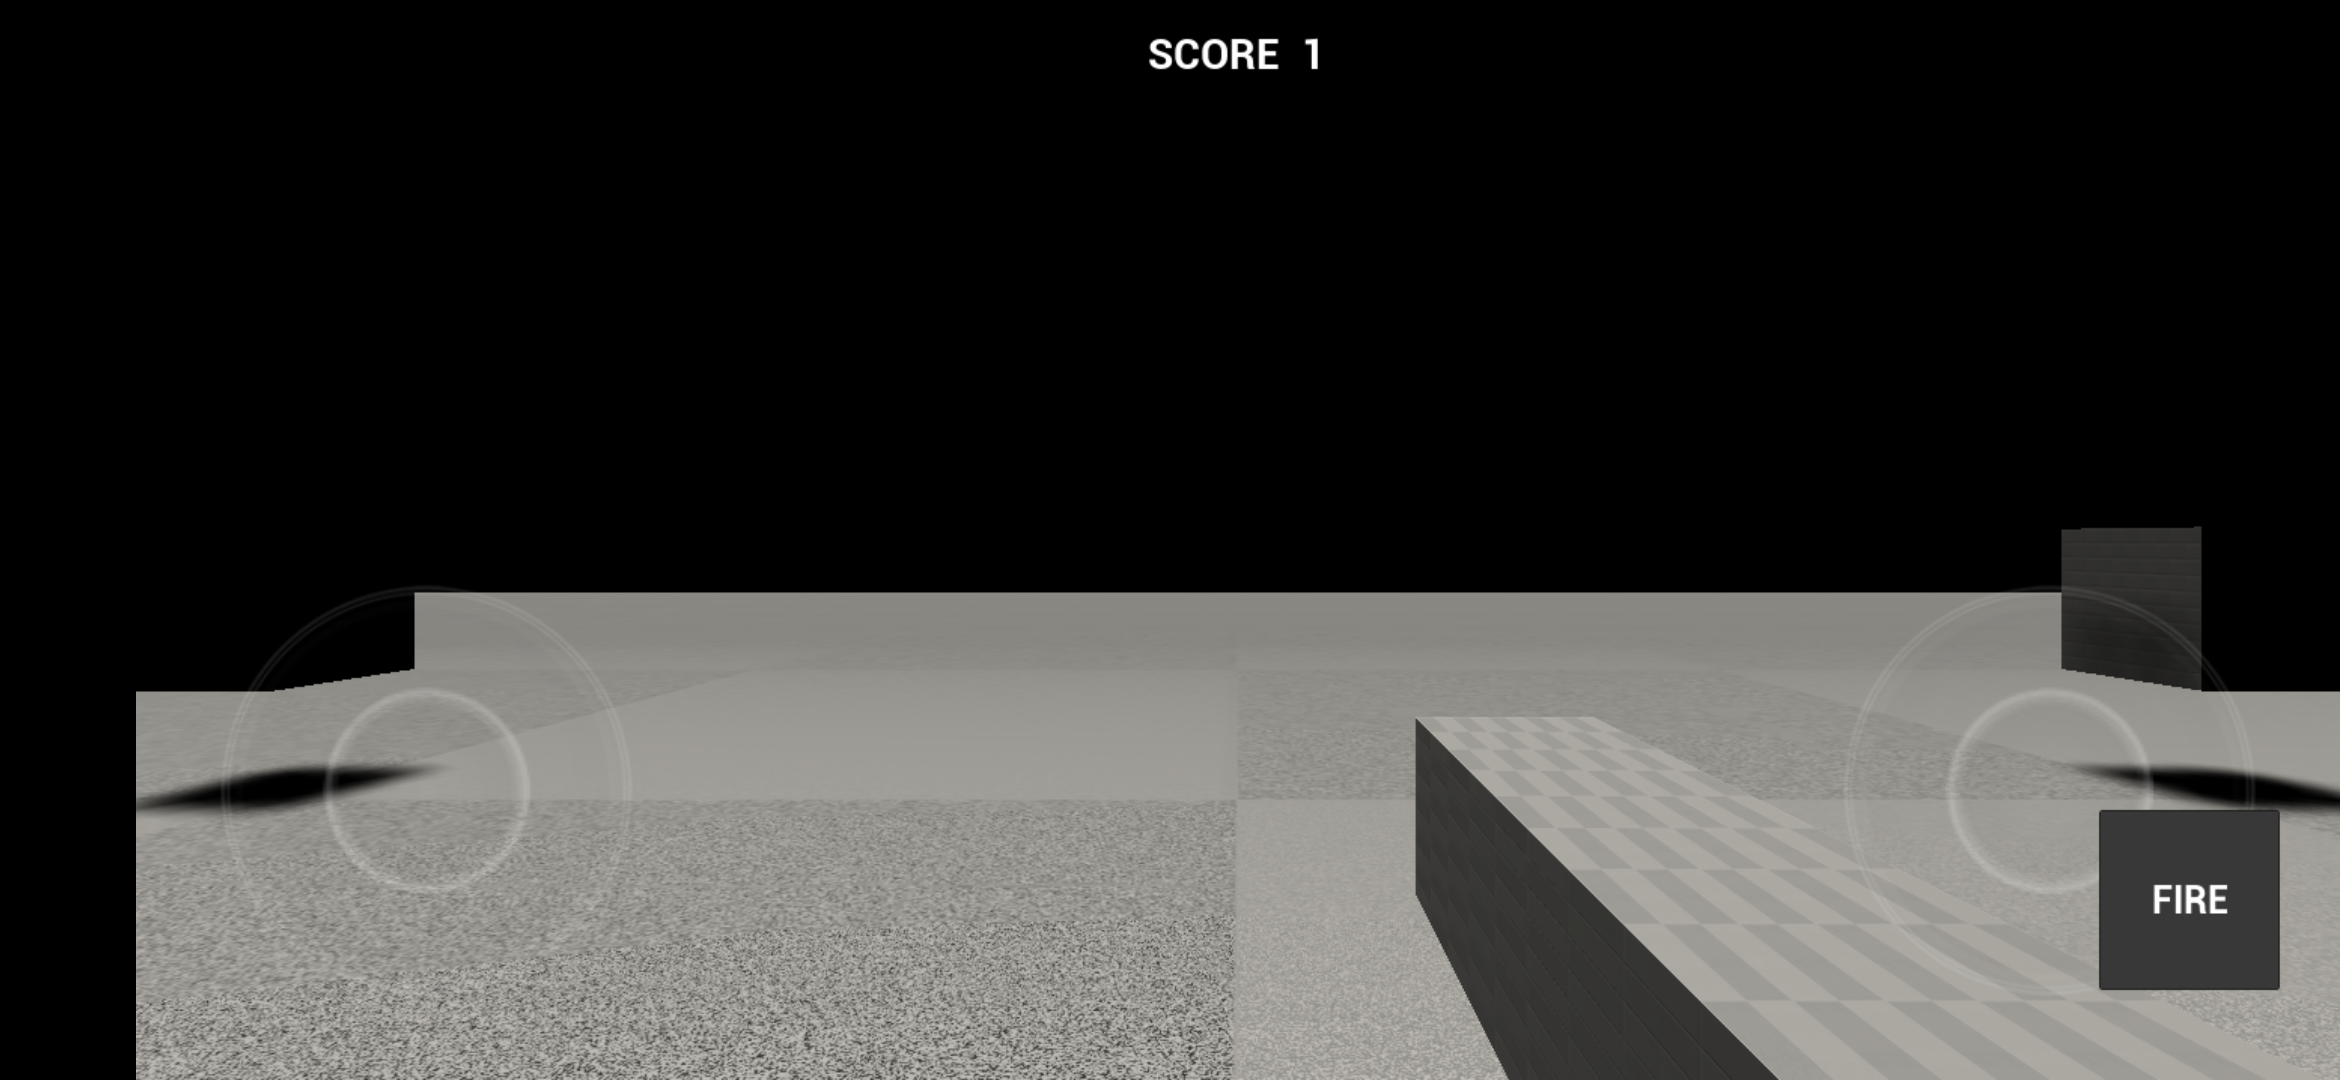
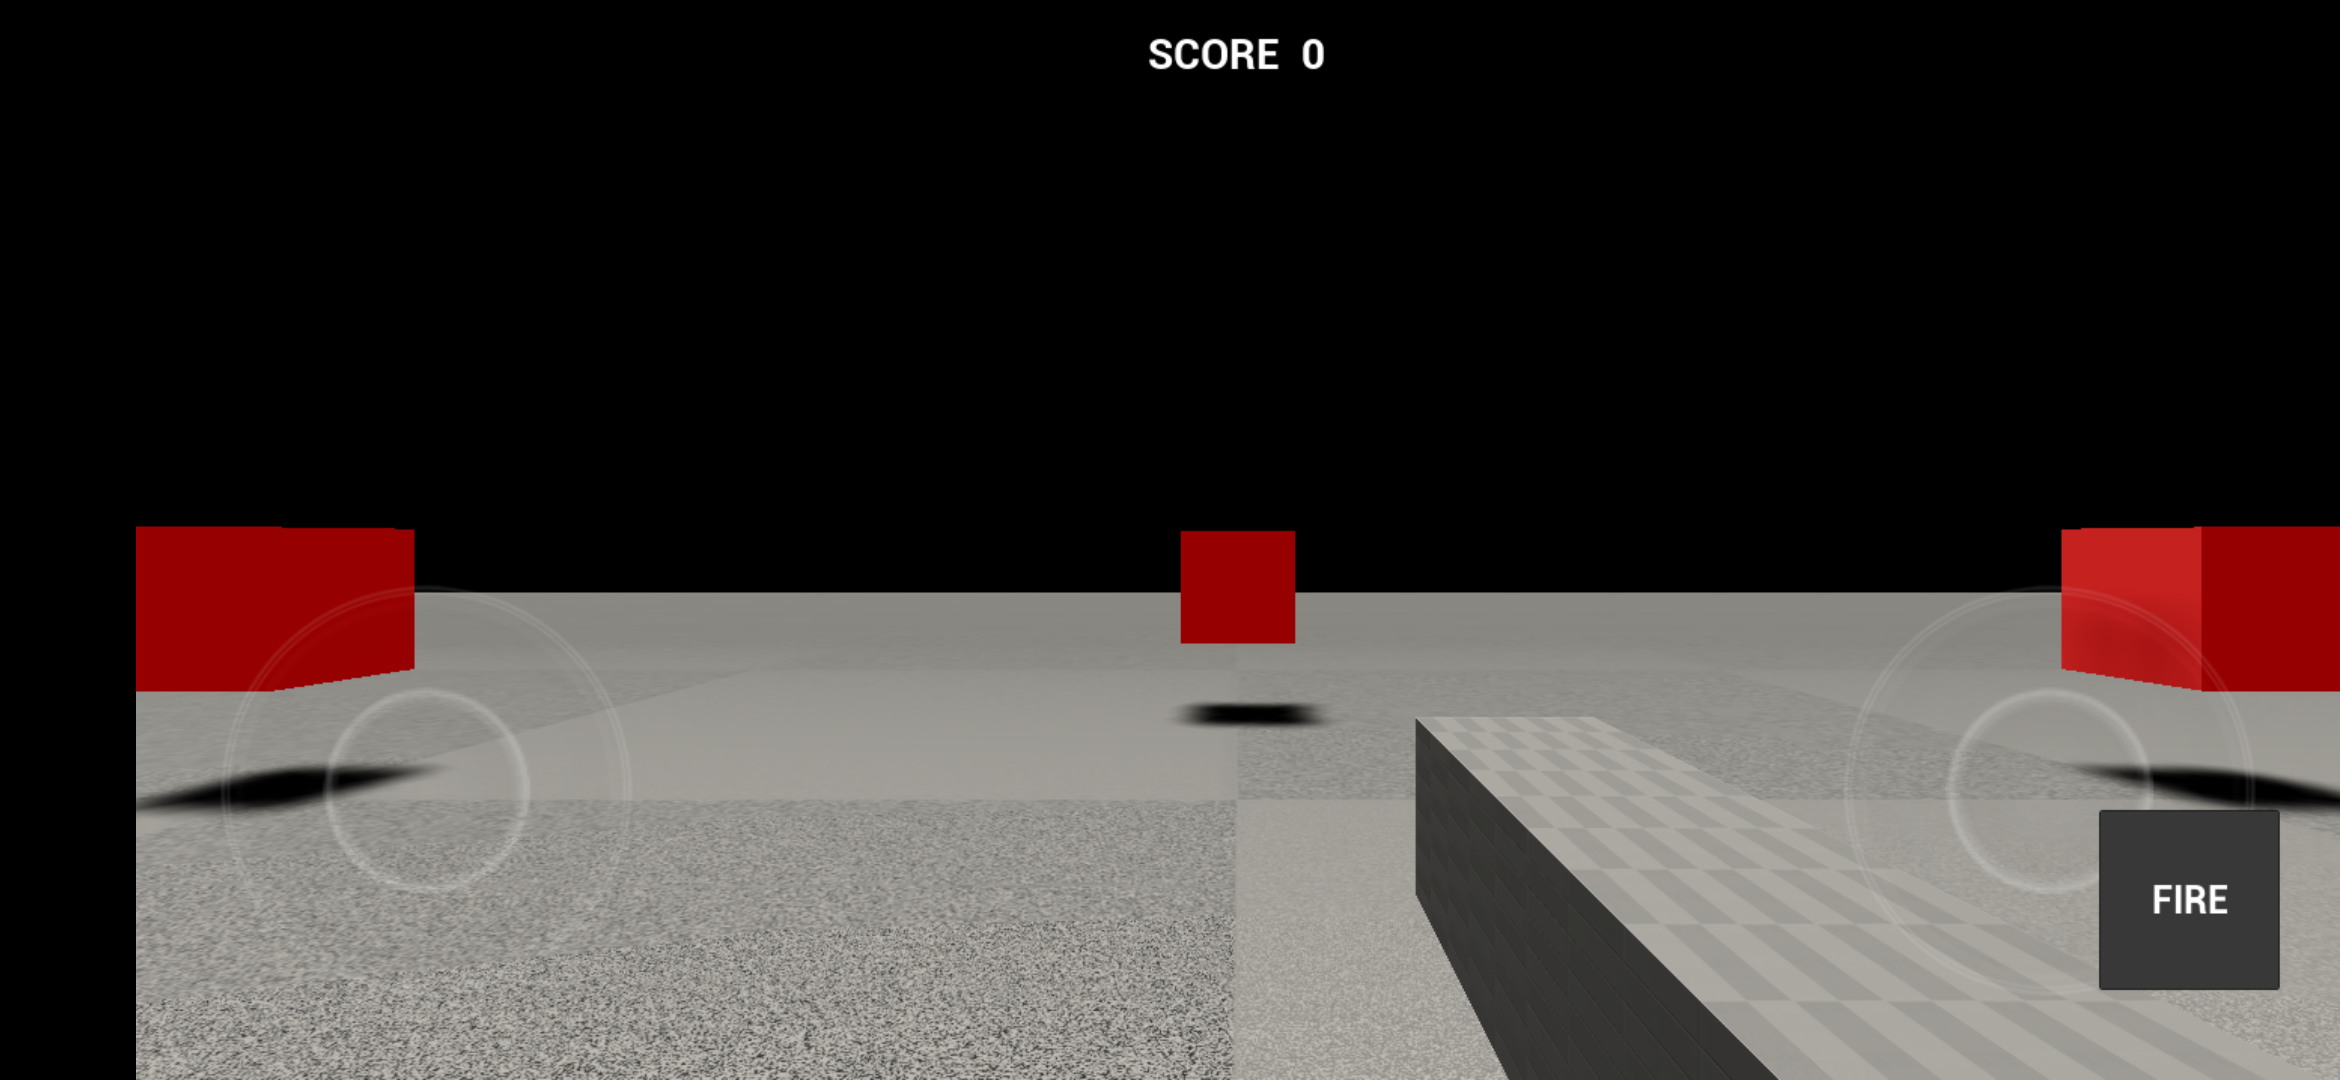
Make targets red via a dedicated material asset
- Add /Game/Materials/M_Target (red base + slight red emissive, 'Color' param),
  authored headlessly with make_material.py; assign it to ShooterTarget.
- The engine BasicShapeMaterial has no color parameter, so the old MID tint was a
  no-op (targets rendered grey); removed that dead code.
- Cook the Materials folder; refresh README screenshot (red targets, verified on emulator).

diff --git a/make_material.py b/make_material.py
@@ -1,0 +1,27 @@
+import unreal
+
+# Create /Game/Materials/M_Target: a red, slightly-emissive material so targets
+# pop against the grey arena even under dim lighting.
+at = unreal.AssetToolsHelpers.get_asset_tools()
+mat = at.create_asset("M_Target", "/Game/Materials", unreal.Material, unreal.MaterialFactoryNew())
+mel = unreal.MaterialEditingLibrary
+
+# Base color (exposed as a "Color" parameter so it can be tweaked / instanced later).
+col = mel.create_material_expression(mat, unreal.MaterialExpressionVectorParameter, -400, 0)
+col.set_editor_property("parameter_name", "Color")
+col.set_editor_property("default_value", unreal.LinearColor(0.85, 0.05, 0.05, 1.0))
+mel.connect_material_property(col, "", unreal.MaterialProperty.MP_BASE_COLOR)
+
+# A touch of red emissive so the targets read as red even in shadow.
+emi = mel.create_material_expression(mat, unreal.MaterialExpressionConstant3Vector, -400, 220)
+emi.set_editor_property("constant", unreal.LinearColor(0.35, 0.0, 0.0, 1.0))
+mel.connect_material_property(emi, "", unreal.MaterialProperty.MP_EMISSIVE_COLOR)
+
+# Moderate roughness.
+rough = mel.create_material_expression(mat, unreal.MaterialExpressionConstant, -400, 400)
+rough.set_editor_property("r", 0.5)
+mel.connect_material_property(rough, "", unreal.MaterialProperty.MP_ROUGHNESS)
+
+mel.recompile_material(mat)
+unreal.EditorAssetLibrary.save_asset("/Game/Materials/M_Target")
+unreal.log("Created /Game/Materials/M_Target")

diff --git a/Source/Shooter3D/ShooterTarget.cpp b/Source/Shooter3D/ShooterTarget.cpp
@@ -1,7 +1,7 @@
 #include "ShooterTarget.h"
 #include "ShooterGameMode.h"
 #include "Components/StaticMeshComponent.h"
-#include "Materials/MaterialInstanceDynamic.h"
+#include "Materials/MaterialInterface.h"
 #include "Kismet/GameplayStatics.h"
 #include "UObject/ConstructorHelpers.h"
 
@@ -17,6 +17,15 @@ AShooterTarget::AShooterTarget()
 	{
 		Mesh->SetStaticMesh(CubeMesh.Object);
 	}
+
+	// Red material (the engine's BasicShapeMaterial has no color slot, so we use
+	// our own /Game/Materials/M_Target created with the material-authoring script).
+	static ConstructorHelpers::FObjectFinder<UMaterialInterface> RedMat(TEXT("/Game/Materials/M_Target.M_Target"));
+	if (RedMat.Succeeded())
+	{
+		Mesh->SetMaterial(0, RedMat.Object);
+	}
+
 	RootComponent = Mesh;
 }
 
@@ -24,16 +33,6 @@ void AShooterTarget::BeginPlay()
 {
 	Super::BeginPlay();
 	ArenaCenter = FVector(0.f, 0.f, 100.f);
-
-	// Tint the target red so it stands out against the grey floor.
-	if (UMaterialInterface* Base = Mesh->GetMaterial(0))
-	{
-		UMaterialInstanceDynamic* Dyn = Mesh->CreateAndSetMaterialInstanceDynamic(0);
-		if (Dyn)
-		{
-			Dyn->SetVectorParameterValue(TEXT("Color"), FLinearColor(0.9f, 0.1f, 0.1f));
-		}
-	}
 }
 
 void AShooterTarget::OnShot()